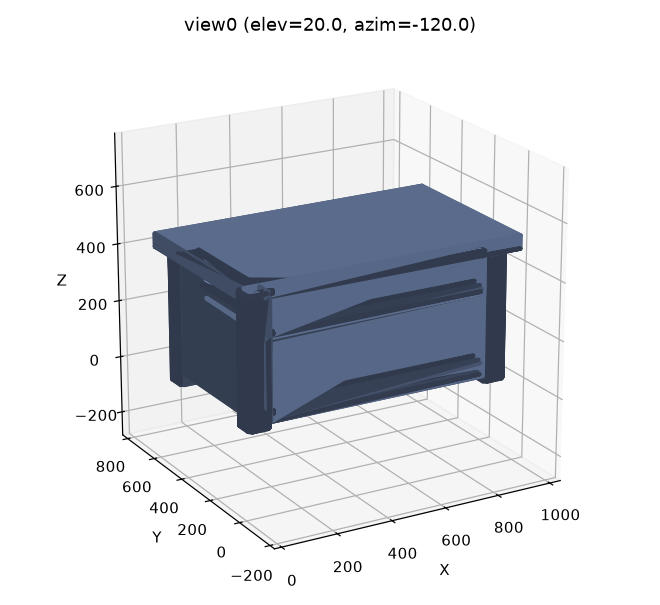
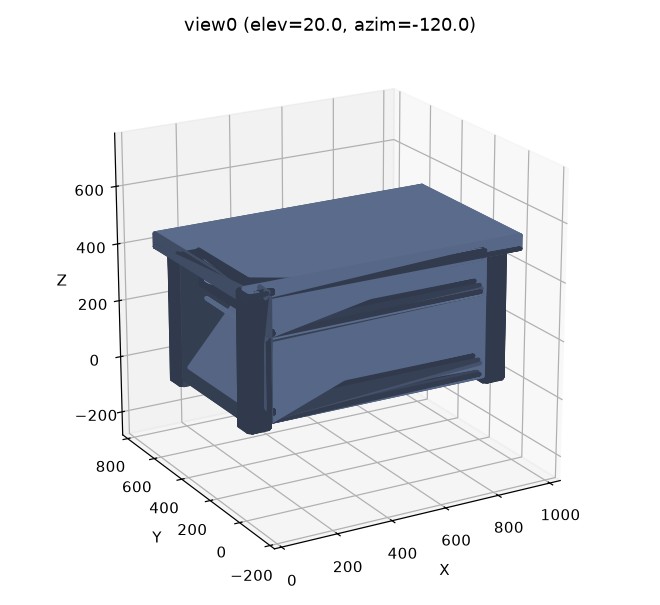
Drawer-bench: keep the 3/8 chamfer, lower the side and back panels to the drawer line
Brian picked E1 from the leg options page and asked for the side and
back panels to end on the same line as the bottom drawer front, 3/4 in
off the floor instead of 1-1/2 in. GROOVE_STOP is now tied to FLOOR_GAP
so the post grooves, panel heights and the bottom-groove lip follow
(the lip is 26 mm, closing the 7 mm review item). Re-exported and the
options page republished with a decided banner.

Changed region(s): [[0.2727, 0.5058, 0.3636, 0.6843]]

diff --git a/projects/Drawer-bench/leg-options.html b/projects/Drawer-bench/leg-options.html
@@ -77,6 +77,7 @@
   .aside { background: var(--note-bg); color: var(--note-ink); border-radius: 10px; padding: 14px 16px; font-size: 14.5px; max-width: 72ch; }
   .aside b { color: var(--ink); }
   .cta { border-top: 2px solid var(--line); padding-top: 18px; font-size: 16px; max-width: 62ch; }
+  .decided { background: var(--good-bg); color: var(--good-ink); border-radius: 8px; padding: 10px 14px; font-weight: 500; max-width: 72ch; }
   .cta code { font-family: "IBM Plex Mono", monospace; background: var(--note-bg); padding: 1px 6px; border-radius: 4px; }
   #lightbox { position: fixed; inset: 0; background: rgba(15, 12, 8, .88); display: none; place-items: center; padding: 24px; z-index: 10; cursor: zoom-out; }
   #lightbox.open { display: grid; }
@@ -92,6 +93,7 @@
     <p class="eyebrow">Drawer bench &middot; leg design, round two</p>
     <h1>Drawer Bench Legs</h1>
     <p>Two independent choices, both on the 3 in soft maple posts you confirmed against the island: <b>how the post's vertical edges are treated</b> (E1 to E5) and <b>what happens at the floor</b> (F1 to F4). Every picture is rendered from the bench's own CAD constants, so the reveals, setbacks and gaps are the real ones. Tap any picture to enlarge it.</p>
+    <p class="decided">Decided 2026-09-27: E1 stays (3/8 in chamfer, posts straight to the floor), and the side and back panels come down to the bottom drawer front's line, 3/4 in off the floor instead of 1-1/2 in. This page is kept for the record.</p>
     <ul class="fixed">
       <li>3 x 3 in posts, floor to underside of top</li>
       <li>1-3/4 in top, 1-1/4 in overhang (overhang still provisional)</li>

diff --git a/projects/Drawer-bench/drawer_bench.py b/projects/Drawer-bench/drawer_bench.py
@@ -31,7 +31,8 @@ POST = 3 * IN              # 76.2   post square
 CHAMFER = 0.375 * IN       # 9.525  post vertical edges, full length
 SETBACK = 0.5 * IN         # 12.7   panel outer face behind the post face
 GROOVE_D = 0.375 * IN      # 9.525  groove depth in the posts
-GROOVE_STOP = 1.5 * IN     # 38.1   panel grooves stop this far above floor
+# GROOVE_STOP (where the panel grooves and the panels stop above the floor) is
+# tied to FLOOR_GAP below
 # FRAME_SETBACK (front frame plane) is derived below the slide block: fronts + Blum front gap
 FRONT_SETBACK = 0.25 * IN  # 6.35   drawer fronts behind the post face
 FRONT_T = 0.75 * IN        # 19.05  drawer front thickness (solid maple)
@@ -42,6 +43,7 @@ RAIL_MID_H = 1.0 * IN      # 25.4
 RAIL_BOT_H = 1.5 * IN      # 38.1
 RAIL_REAR_H = 1.5 * IN     # 38.1   rear top rail, figure-8 landing
 FLOOR_GAP = 0.75 * IN      # 19.05  shadow gap under the bottom front
+GROOVE_STOP = FLOOR_GAP    # 19.05  side/back bottoms on the drawer-front line (Brian 2026-09-27; was 1-1/2 in)
 REV_TOP = 0.125 * IN       # 3.175  under the top
 REV_MID = 0.25 * IN        # 6.35   between the fronts
 REV_SIDE = 0.125 * IN      # 3.175  front to post
@@ -174,7 +176,7 @@ PARTS.append({"name": "post_front", "solid": post_fl, "qty": 2, "material": "sof
                        "glue-up of two 8/4 pieces milled to 1-1/2; "
                        "3/8 chamfer x4 edges full length; "
                        "side groove T18 (measured ply) x 3/8 at 1/2 from the outer face, "
-                       "stopped 1-1/2 above the floor, open at top"
+                       f"stopped {GROOVE_STOP / IN:g} above the floor, open at top"
                        "; grain vertical, glue-up seam on a side face; "
                        f"three {DOWEL_DIA:g} dia x {DOWEL_DEPTH:g} deep dowel bores on the inner "
                        "face 1 in behind the front face, centered on the rail joints at Z "
@@ -185,7 +187,7 @@ PARTS.append({"name": "post_rear", "solid": post_rl, "qty": 2, "material": "soft
               "notes": "one of 2 REAR posts, left/right mirrored, grooves on the inner faces; "
                        "same blank and chamfer as post_front; side groove as post_front; "
                        "back groove T18 x 3/8 on the inner face at 1/2 from the rear face, "
-                       "stopped 1-1/2 above the floor, open at top; no mortises"
+                       f"stopped {GROOVE_STOP / IN:g} above the floor, open at top; no mortises"
                        "; grain vertical"})
 INST += [("post_fl", post_fl), ("post_fr", post_fr), ("post_rl", post_rl), ("post_rr", post_rr)]
 

diff --git a/projects/Drawer-bench/cutlist.md b/projects/Drawer-bench/cutlist.md
@@ -15,8 +15,8 @@ project: Drawer Bench 40x24x19-5/8 (provisional)
 | 1 | drawer_back_top | 12 x 91.1 x 770.8 | 1/2 x 3-9/16 x 30-3/8 | ply 12mm | box back, datums from the blank's ends: bottom groove 6.35 deep x 6 (T6) with its top at 18.7 above the bottom edge, STOPPED 41.35 from each end (= 35 from the side's inner face); rear-hook notches 41.35 from each end x 13 tall at both bottom corners; rear-hook bores 6 dia x 10 deep from the rear face, centred 13.35 from each end (= 7 from the side's inner face) and 24 above the bottom edge (Blum T65.1600.01 template) ; not a plain rectangular blank (95% of bounding box); needs a drawing or template |
 | 2 | drawer_side_bot | 12 x 215 x 457.2 | 1/2 x 8-7/16 x 18 | ply 12mm | end rabbets 6.35 deep x 12 (T12); bottom groove 6.35 deep x 6 (T6) with its top at 18.7 above the bottom edge ; not a plain rectangular blank (96% of bounding box); needs a drawing or template |
 | 2 | drawer_side_top | 12 x 91.1 x 457.2 | 1/2 x 3-9/16 x 18 | ply 12mm | end rabbets 6.35 deep x 12 (T12); bottom groove 6.35 deep x 6 (T6) with its top at 18.7 above the bottom edge ; not a plain rectangular blank (94% of bounding box); needs a drawing or template |
-| 1 | back | 18 x 377.8 x 819.1 | 11/16 x 14-7/8 x 32-1/4 | ply 18mm | housed 3/8 in each post; top edge under the rear rail; stopped groove 6.35 deep x 12 (T12) on the inner face for the bottom, lower wall 7.05 above the bottom edge, stopped 9.525 from each end |
-| 2 | side | 18 x 412.8 x 415.9 | 11/16 x 16-1/4 x 16-3/8 | ply 18mm | face grain vertical on the show face; housed 3/8 in each post; stopped groove 6.35 deep x 12 (T12) on the inner face for the bottom, lower wall 7.05 above the bottom edge, stopped 9.525 from each end |
+| 1 | back | 18 x 396.9 x 819.1 | 11/16 x 15-5/8 x 32-1/4 | ply 18mm | housed 3/8 in each post; top edge under the rear rail; stopped groove 6.35 deep x 12 (T12) on the inner face for the bottom, lower wall 26.10 above the bottom edge, stopped 9.525 from each end |
+| 2 | side | 18 x 412.8 x 435 | 11/16 x 16-1/4 x 17-1/8 | ply 18mm | face grain vertical on the show face; housed 3/8 in each post; stopped groove 6.35 deep x 12 (T12) on the inner face for the bottom, lower wall 26.10 above the bottom edge, stopped 9.525 from each end |
 | 2 | drawer_bottom_bot/drawer_bottom_top | 6 x 445.9 x 770.8 | 1/4 x 17-9/16 x 30-3/8 | ply 6mm | rear corners notched 41.35 (from each end) x 6.35 deep where the back groove is stopped |
 | 1 | rail_rear | 18 x 38.1 x 819.1 | 11/16 x 1-1/2 x 32-1/4 | soft maple | REAR top rail, thickness = measured ply (T18): stub tenons 3/8 each end, full section; figure-8 fasteners on top |
 | 1 | rail_bot | 18 x 38.1 x 800.1 | 11/16 x 1-1/2 x 31-1/2 | soft maple | FRONT bottom rail, thickness = measured ply (T18): butts flush into the post faces, 9.525 dia x 25.4 deep dowel each end; rabbet 6.35 x 12 (T12) on the rear-top edge, full length, for the bottom panel; glue and screw the bottom into it (no lip above) ; not a plain rectangular blank (88% of bounding box); needs a drawing or template |
@@ -24,8 +24,8 @@ project: Drawer Bench 40x24x19-5/8 (provisional)
 | 1 | rail_mid | 18 x 25.4 x 800.1 | 11/16 x 1 x 31-1/2 | soft maple | FRONT mid rail, thickness = measured ply (T18): butts flush into the post faces, 9.525 dia x 25.4 deep dowel each end; carries the top drawer slides |
 | 1 | front_bot | 19 x 282.6 x 793.8 | 3/4 x 11-1/8 x 31-1/4 | soft maple | grain along the length; screwed to the box from inside through slotted holes (cross-grain 11-3/8 wide); pull undecided; leave about 1.5 mm between the back face and the rails (Blum front gap) |
 | 1 | front_top | 19 x 142.9 x 793.8 | 3/4 x 5-5/8 x 31-1/4 | soft maple | grain along the length; screwed to the box from inside; pull undecided; leave about 1.5 mm between the back face and the rails (Blum front gap), the runner setback sets the closed position |
-| 2 | post_front | 76.2 x 76.2 x 454 | 3 x 3 x 17-7/8 | soft maple | one of 2 FRONT posts, left/right mirrored, grooves on the inner faces; glue-up of two 8/4 pieces milled to 1-1/2; 3/8 chamfer x4 edges full length; side groove T18 (measured ply) x 3/8 at 1/2 from the outer face, stopped 1-1/2 above the floor, open at top; grain vertical, glue-up seam on a side face; three 9.525 dia x 25.4 deep dowel bores on the inner face 1 in behind the front face, centered on the rail joints at Z 38.10, 304.80, 441.32 ; not a plain rectangular blank (94% of bounding box); needs a drawing or template |
-| 2 | post_rear | 76.2 x 76.2 x 454 | 3 x 3 x 17-7/8 | soft maple | one of 2 REAR posts, left/right mirrored, grooves on the inner faces; same blank and chamfer as post_front; side groove as post_front; back groove T18 x 3/8 on the inner face at 1/2 from the rear face, stopped 1-1/2 above the floor, open at top; no mortises; grain vertical ; not a plain rectangular blank (91% of bounding box); needs a drawing or template |
+| 2 | post_front | 76.2 x 76.2 x 454 | 3 x 3 x 17-7/8 | soft maple | one of 2 FRONT posts, left/right mirrored, grooves on the inner faces; glue-up of two 8/4 pieces milled to 1-1/2; 3/8 chamfer x4 edges full length; side groove T18 (measured ply) x 3/8 at 1/2 from the outer face, stopped 0.75 above the floor, open at top; grain vertical, glue-up seam on a side face; three 9.525 dia x 25.4 deep dowel bores on the inner face 1 in behind the front face, centered on the rail joints at Z 38.10, 304.80, 441.32 ; not a plain rectangular blank (94% of bounding box); needs a drawing or template |
+| 2 | post_rear | 76.2 x 76.2 x 454 | 3 x 3 x 17-7/8 | soft maple | one of 2 REAR posts, left/right mirrored, grooves on the inner faces; same blank and chamfer as post_front; side groove as post_front; back groove T18 x 3/8 on the inner face at 1/2 from the rear face, stopped 0.75 above the floor, open at top; no mortises; grain vertical ; not a plain rectangular blank (91% of bounding box); needs a drawing or template |
 
 Inches rounded to the nearest 1/16.
 
@@ -33,6 +33,6 @@ Inches rounded to the nearest 1/16.
 
 - maple butcherblock (Boos match): 1 part, 0.62 m2 face area (no kerf/waste allowance)
 - ply 12mm: 9 parts, 1.19 m2 face area (no kerf/waste allowance)
-- ply 18mm: 3 parts, 0.65 m2 face area (no kerf/waste allowance)
+- ply 18mm: 3 parts, 0.68 m2 face area (no kerf/waste allowance)
 - ply 6mm: 2 parts, 0.69 m2 face area (no kerf/waste allowance)
 - soft maple: 10 parts, 0.58 m2 face area (no kerf/waste allowance)

diff --git a/projects/Drawer-bench/.claude/context-check/last-handoff.md b/projects/Drawer-bench/.claude/context-check/last-handoff.md
@@ -13,3 +13,5 @@ Same day, second change: Brian asked for the drawer-box bottoms to be 1/8 in (3 
 2026-09-27: Brian measured the top at 1-3/4 in thick and the legs (posts) at 3 in wide. Both match the values already in `drawer_bench.py` (`TOP_T = 1.75 * IN`, `POST = 3 * IN`), so nothing in the geometry, cut list, STEP or renders changed; `TOP_T` moved from provisional to confirmed in design.md and brief.md. Still open from the Boos island: overhang past the posts (1-1/4 in provisional) and edge profile. The viewer was re-opened and the current model re-pushed (`SHOW=reset`) the same day.
 
 Same day, Brian asked to revisit the leg design with a 5-10 option page. Built `projects/Drawer-bench/leg_options.py` (imports the constants from `drawer_bench.py`, rebuilds the visible shell with one post-edge treatment and one floor treatment, renders maple-shaded views with per-face shading and a subdivided mesh so chamfers and roundovers read, plus a to-scale plan section of the post) and `leg-options.html`, published as a private Artifact at https://claude.ai/artifact/FyJGk4bqsZq3rfTrXQzhbR with the 18 PNGs in `images/legs/` as its files. Options: E1 3/8 chamfer (current), E2 square, E3 3/8 roundover, E4 3/4 chamfer on the outer corner + 3/8 on the reveal edges, E5 3/4 roundover on the outer corner + crisp reveal edges (anything over 1/2 in on a reveal edge breaks into the panel groove); F1 straight to the floor (current), F2 edge stopped at the panel line with a square 1-1/2 in foot, F3 panels and fronts 3 in off the floor (fronts 4-7/8 / 9-5/8, boxes 2-13/16 / 6-15/16), F4 4-1/2 in (fronts 4-3/8 / 8-5/8, boxes 2-5/16 / 6, flagged as too shallow for two drawers). Earlier companion screens (legs-corners, post-thickness, post-details in `.superpowers/brainstorm/`) had only shown proud post vs wrap vs plinth, 2-1/2/3/3-1/2 in, and square/chamfer/taper as flat SVG. Next action: Brian answers with one E and one F; apply as constants in `drawer_bench.py` (edge kind/size, `GROOVE_STOP`/`FLOOR_GAP` for F3/F4, and the stopped edge needs a new post build step for F2), re-run, re-export, re-push, update design.md/brief.md/learnings.
+
+Brian answered: keep E1, and "the bottom of the drawer is lower than the sides and back, make the sides and back the same as the drawer", read as: the side and back panel bottoms go on the bottom drawer front's line, 3/4 in off the floor (they stopped at 1-1/2 in). Applied as `GROOVE_STOP = FLOOR_GAP` in `drawer_bench.py` (one tie, defined right after `FLOOR_GAP`; the post notes now print the stop from the constant); ran clean on the first try, re-exported (cutlist/STEP/renders), re-pushed `SHOW=1`. Side effects: panels 3/4 in taller (sides 16-1/4 x 17-1/8, back 28-1/4 x 15-5/8), post grooves stop 3/4 in up, and the ply lip under the bottom groove is 26 mm (was 7 mm; that review item is closed). The leg options page was republished with a "decided" banner and stays for the record. The leg/corner style question is closed; still open: Boos island overhang and edge profile, plywood actuals, purchased slide spec, pulls and finish.

diff --git a/memory/project-drawer-bench.md b/memory/project-drawer-bench.md
@@ -1,6 +1,6 @@
 ---
 name: project-drawer-bench
-description: Drawer-bench (maple post-and-panel kitchen bench) CAD built 2026-08-24; overall footprint (40x24 in) and height (19-5/8 in) measured 2026-09-17; top 1-3/4 in and 3 in posts confirmed 2026-09-27; overhang/edge profile still pending; leg design being revisited
+description: Drawer-bench (maple post-and-panel kitchen bench) CAD built 2026-08-24; overall footprint (40x24 in) and height (19-5/8 in) measured 2026-09-17; top 1-3/4 in and 3 in posts confirmed 2026-09-27; overhang/edge profile still pending; legs decided 2026-09-27 (E1 chamfer kept, side/back panels lowered to the 3/4 in drawer-front line)
 metadata: 
   node_type: memory
   type: project
@@ -20,4 +20,4 @@ First measurement landed 2026-09-17: Brian gave the overall top footprint (40 x 
 
 Same day: Brian confirmed the drawer boxes stay rabbeted (not pocket-hole), then set the drawer-box bottoms to 1/4 in (6 mm) plywood, down from 1/2 in (briefly tried 1/8 in first); sides/front/back stay 1/2 in. Then he changed the front 3 rails' post joints from stub-tenon-into-mortise to dowels (two 3/8 in x 1 in dowels per rail); the rear top rail is unaffected. Each change re-exported and re-pushed to the viewer.
 
-2026-09-27: Brian confirmed the top thickness at 1-3/4 in and the post width at 3 in (the Boos island's legs are also 3 in); both already matched the CAD, so no geometry change. Remaining Boos island items: overhang past the posts and edge profile. Same day he asked to revisit the leg design with a 5-10 option visual page: built `projects/Drawer-bench/leg_options.py` (renders from the model's constants) and published `leg-options.html` as a private Artifact, https://claude.ai/artifact/FyJGk4bqsZq3rfTrXQzhbR, with post-edge options E1-E5 and floor options F1-F4 (details in the handoff). Waiting on one E and one F from Brian; the earlier 2026-08 companion screens only covered proud post vs wrap vs plinth, post thickness, and square/chamfer/taper.
+2026-09-27: Brian confirmed the top thickness at 1-3/4 in and the post width at 3 in (the Boos island's legs are also 3 in); both already matched the CAD, so no geometry change. Remaining Boos island items: overhang past the posts and edge profile. Same day he asked to revisit the leg design with a 5-10 option visual page: built `projects/Drawer-bench/leg_options.py` (renders from the model's constants) and published `leg-options.html` as a private Artifact, https://claude.ai/artifact/FyJGk4bqsZq3rfTrXQzhbR, with post-edge options E1-E5 and floor options F1-F4 (details in the handoff). Brian kept E1 (3/8 in chamfer, posts straight to the floor) and asked for the side and back panels to end on the bottom drawer front's line, 3/4 in off the floor (was 1-1/2 in): applied as `GROOVE_STOP = FLOOR_GAP`, which also made the ply lip under the bottom groove 26 mm and closed that review item. The leg/corner question is closed. The earlier 2026-08 companion screens only covered proud post vs wrap vs plinth, post thickness, and square/chamfer/taper.

diff --git a/projects/Drawer-bench/brief.md b/projects/Drawer-bench/brief.md
@@ -24,15 +24,11 @@ Face-frame bench with drawers. Furniture-grade sibling of
 
 ## Open questions
 
-- Leg/corner style: reopened 2026-09-27 after the island measurements.
-  Round-two options page (rendered from the CAD by `leg_options.py`,
-  page `leg-options.html`, images in `images/legs/`):
-  https://claude.ai/artifact/FyJGk4bqsZq3rfTrXQzhbR. Post edges E1-E5
-  (3/8 chamfer as built, square, 3/8 roundover, 3/4 outer-corner
-  chamfer, 3/4 outer-corner roundover) and at the floor F1-F4 (straight
-  down, stopped edge with a square foot, 3 in of leg showing, 4-1/2 in
-  of leg showing; the last two re-split the fronts and shrink the top
-  box to 2-13/16 / 2-5/16 in). Waiting on one E and one F from Brian.
+- Leg/corner style: DECIDED 2026-09-27 (Decisions locked): E1 kept,
+  panels lowered to the drawer-front line. The round-two options page
+  stays for the record: https://claude.ai/artifact/FyJGk4bqsZq3rfTrXQzhbR
+  (`leg_options.py`, `leg-options.html`, `images/legs/`; post edges
+  E1-E5 and floor treatments F1-F4).
 - Top overhang and edge profile: still pending the Boos island
   measurement (overall top footprint and height locked 2026-09-17, top
   thickness confirmed 2026-09-27, see Decisions locked).
@@ -124,6 +120,14 @@ because option (a) leaves 19-1/4 in of interior depth.
   2026-09-18). Rails now butt flush at the post faces (length = opening
   exactly, was opening + 3/4 in); the rear top rail is unaffected, still
   stub-tenoned into the back groove line.
+- Legs, round two (Brian, 2026-09-27, from the rendered leg options
+  page): keep E1, the 3/8 in chamfer full length with the posts straight
+  to the floor, and bring the side and back panels down to the same line
+  as the bottom drawer front, 3/4 in off the floor (was 1-1/2 in). In the
+  CAD `GROOVE_STOP = FLOOR_GAP`, so the post grooves and the panels stop
+  3/4 in up; the panels grow 3/4 in and the ply lip under the bottom
+  groove in the sides and back becomes 26 mm (was 7 mm), which closes
+  that review item.
 - Top thickness confirmed at 1-3/4 in and leg (post) width at 3 in
   (Brian, 2026-09-27). Both match the values already in the CAD
   (`TOP_T`, `POST`), so no geometry changed; `TOP_T` is no longer
@@ -186,7 +190,8 @@ because option (a) leaves 19-1/4 in of interior depth.
   pending**.
 - Open for Brian's review: the seven CAD resolutions in design.md
   (especially the 58 mm interior height of the top drawer and the 7 mm
-  ply lip under the bottom groove), then the measurements listed under
+  ply lip under the bottom groove; that lip became 26 mm on 2026-09-27
+  when the panels were lowered), then the measurements listed under
   "Provisional inputs".
 - 2026-08-24 (evening): Brian asked how the top drawer's slides fit.
   Checked the Blum 563H sheet: the box width rule, bottom clearance and

diff --git a/projects/Drawer-bench/design.md b/projects/Drawer-bench/design.md
@@ -44,10 +44,12 @@ confirmed against the locked `POST` constant.
 - **Side panels (2) and back panel (1)**: 3/4 in plywood, housed in
   grooves in the posts, outer face 1/2 in behind the post face
   (frame-and-panel shadow). Grooves 3/4 in wide (cut to measured ply),
-  3/8 in deep, stopped 1-1/2 in above the floor, open at the top.
-  Provisional blanks: sides 16-1/4 x 16-3/4 in, back 28-1/4 x 16-3/4 in
-  (each includes 3/8 in per housed edge; height runs from the groove
-  stop to the top of the posts).
+  3/8 in deep, stopped 3/4 in above the floor (the same line as the
+  bottom drawer front; Brian, 2026-09-27, was 1-1/2 in), open at the
+  top. Provisional blanks: sides 16-1/4 x 17-1/8 in, back 32-1/4 x
+  15-5/8 in (each includes 3/8 in per housed edge; height runs from the
+  groove stop to the top of the posts, the back to the underside of the
+  rear rail).
 - **Front frame (hidden)**: soft maple 3/4 in thick, dowel-jointed into
   the front posts (two 3/8 in dowels per rail, one at each end, 1 in
   deep into post and rail; Brian, 2026-09-18, was stub-tenoned 3/8 in
@@ -217,7 +219,18 @@ open for Brian's review (change the constant, re-run the file).
   sides and back (groove stop 1-1/2 in, bottom top face 2-1/4 in, 1/2 in
   ply): supported only at the post ends, fine as a dust-panel detail but
   fragile to machine. Lowering the groove stop to 1 in would give a
-  20 mm lip; owner's call.
+  20 mm lip; owner's call. SUPERSEDED 2026-09-27: the groove stop is
+  now 3/4 in (below), so the lip is 26 mm.
+- **Side and back panels end on the drawer-front line, 3/4 in above the
+  floor** (Brian, 2026-09-27, after the rendered leg options page: he
+  kept the 3/8 in chamfer, E1, with the posts straight to the floor, but
+  wanted the panel bottoms level with the bottom drawer front instead of
+  3/4 in higher). In the CAD `GROOVE_STOP = FLOOR_GAP`, one tie, so the
+  post grooves, the panel heights and the bottom-groove lip all follow;
+  the panels grow 3/4 in and nothing else moves. Options considered and
+  passed on: square, 3/8 roundover, 3/4 outer-corner chamfer or
+  roundover, a stopped edge with a square foot, and 3 or 4-1/2 in of
+  leg showing (`leg_options.py`, `leg-options.html`).
 - **Drawer-box bottoms are 1/4 in (6 mm) plywood, not 1/2 in** (Brian,
   2026-09-17; landed on 1/4 in after a brief 1/8 in): only the bottom
   panel's own thickness changed. The groove that houses it in the

diff --git a/knowledge/learnings/drawer-bench.md b/knowledge/learnings/drawer-bench.md
@@ -59,8 +59,11 @@ reviewed, not built; update with measured fits after the build.
   island (footprint 37-1/2 x 21-1/2, opening 31-1/2 at the current
   numbers).
 - 3 in posts glued from 8/4, 3/8 chamfer, no taper; 3/4 ply sides and
-  back 1/2 in behind the post faces in T18 x 3/8 grooves stopped 1-1/2 in
-  above the floor; hidden front frame 1 in behind the post faces, rails
+  back 1/2 in behind the post faces in T18 x 3/8 grooves stopped 3/4 in
+  above the floor, the bottom drawer front's line (was 1-1/2 in until
+  2026-09-27, when Brian revisited the legs against a rendered options
+  page and kept the 3/8 chamfer, E1, but wanted the panels to end on the
+  same line as the drawer); hidden front frame 1 in behind the post faces, rails
   1 / 1 / 1-1/2 in tall milled to T18, dowel-jointed into the front
   posts (two 3/8 in dowels per rail, one each end, 1 in deep; was
   stub-tenoned into three stopped mortises per front post until
@@ -115,8 +118,9 @@ reviewed, not built; update with measured fits after the build.
   done 2026-09-27), actual 3/4 and 1/2 ply, the purchased slide spec. Re-run
   `EXPORT=1 .venv/bin/python projects/Drawer-bench/drawer_bench.py`.
 - Brian to review the seven CAD resolutions in design.md, in particular
-  the 58 mm interior height of the top drawer and the 7 mm ply lip under
-  the bottom groove.
+  the 58 mm interior height of the top drawer. (The 7 mm ply lip under
+  the bottom groove resolved itself on 2026-09-27: lowering the panels
+  to the drawer-front line made it 26 mm.)
 - Confirm the purchased slides are 563H4570B (or re-enter the runner
   length and setback rule from that sheet).
 - Decide pulls (routed finger pull vs hardware) and finish.

diff --git a/memory/MEMORY.md b/memory/MEMORY.md
@@ -5,7 +5,7 @@
 - [Logo recreation fidelity](feedback-logo-recreation-fidelity.md) - trace real artwork 1:1, never rebuild logo elements from primitives
 - [Surfboards via Shape3d](project-surfboard-shape3d.md) - parsing proven, Kustom Beak rebuilt in FreeCAD, s3dx writer built; Brian to acceptance-test a written file in Shape3d
 - [X2D LAN status](reference-x2d-printer-lan.md) - read-only MQTT printer check via scripts/x2d-status.py; access code lives in Studio Beta conf
-- [Drawer-bench status](project-drawer-bench.md) - CAD built 2026-08-24; overall size (40x24x19-5/8 in) measured 2026-09-17; top 1-3/4 in and 3 in posts confirmed 2026-09-27; overhang/edge profile still pending; leg options page (E1-E5 edges, F1-F4 floor) awaiting Brian's pick
+- [Drawer-bench status](project-drawer-bench.md) - CAD built 2026-08-24; overall size (40x24x19-5/8 in) measured 2026-09-17; top 1-3/4 in and 3 in posts confirmed 2026-09-27; overhang/edge profile still pending; legs decided 2026-09-27 (E1 chamfer kept, side/back panels lowered to the 3/4 in drawer-front line)
 - [Minimal test coupons](feedback-minimal-test-coupons.md) - coupons hold only the feature under test plus a thin substrate; quote time from a real slice
 - [Keep tools in the vault](project-keep-tools-in-vault.md) - scratchpad is wiped on restarts; pipeline tools and monitors belong in projects/<Name>/pipeline or scripts/
 - [Raised letters recipe](feedback-raised-letters-recipe.md) - VALIDATED by the 14-tag batch: one-wall fill-core modifier + object key + parity check; dead ends not to retry; read knowledge/lettering-x2d.md before any lettering job
